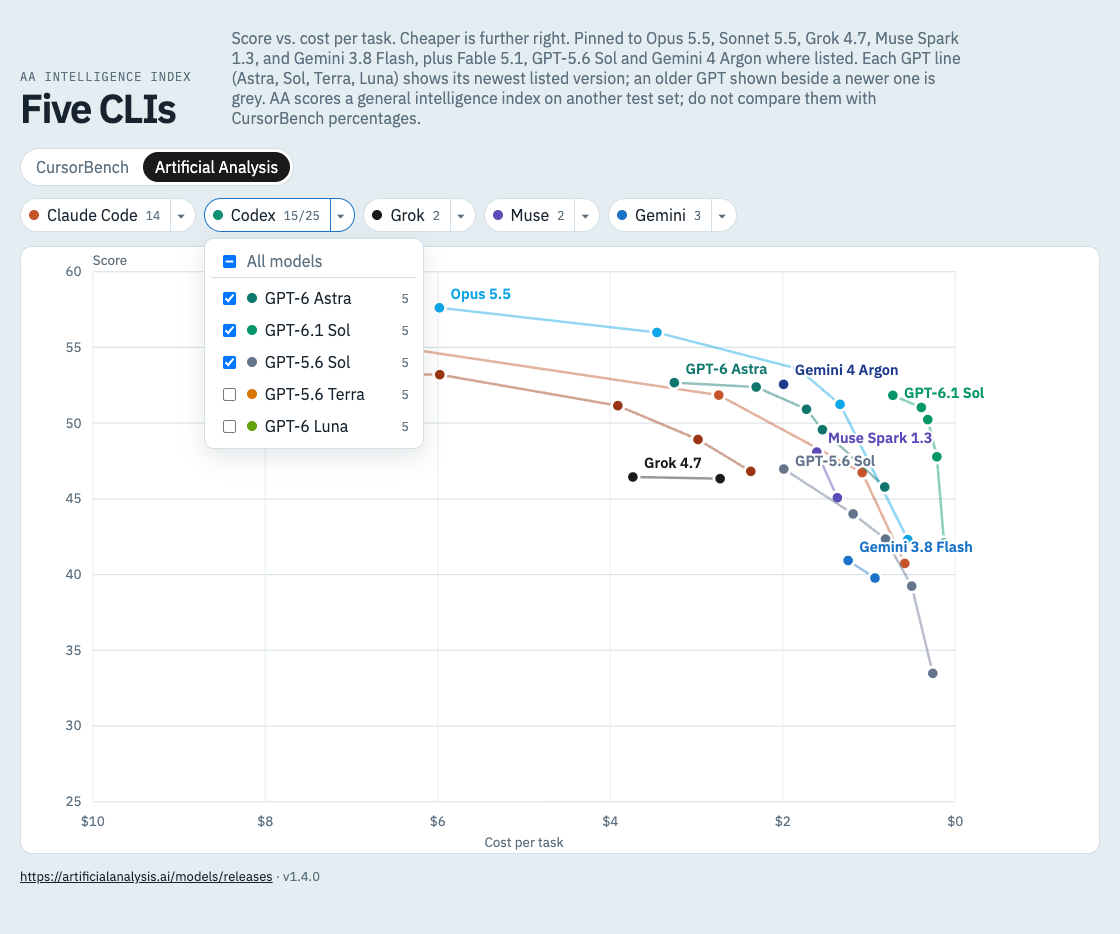
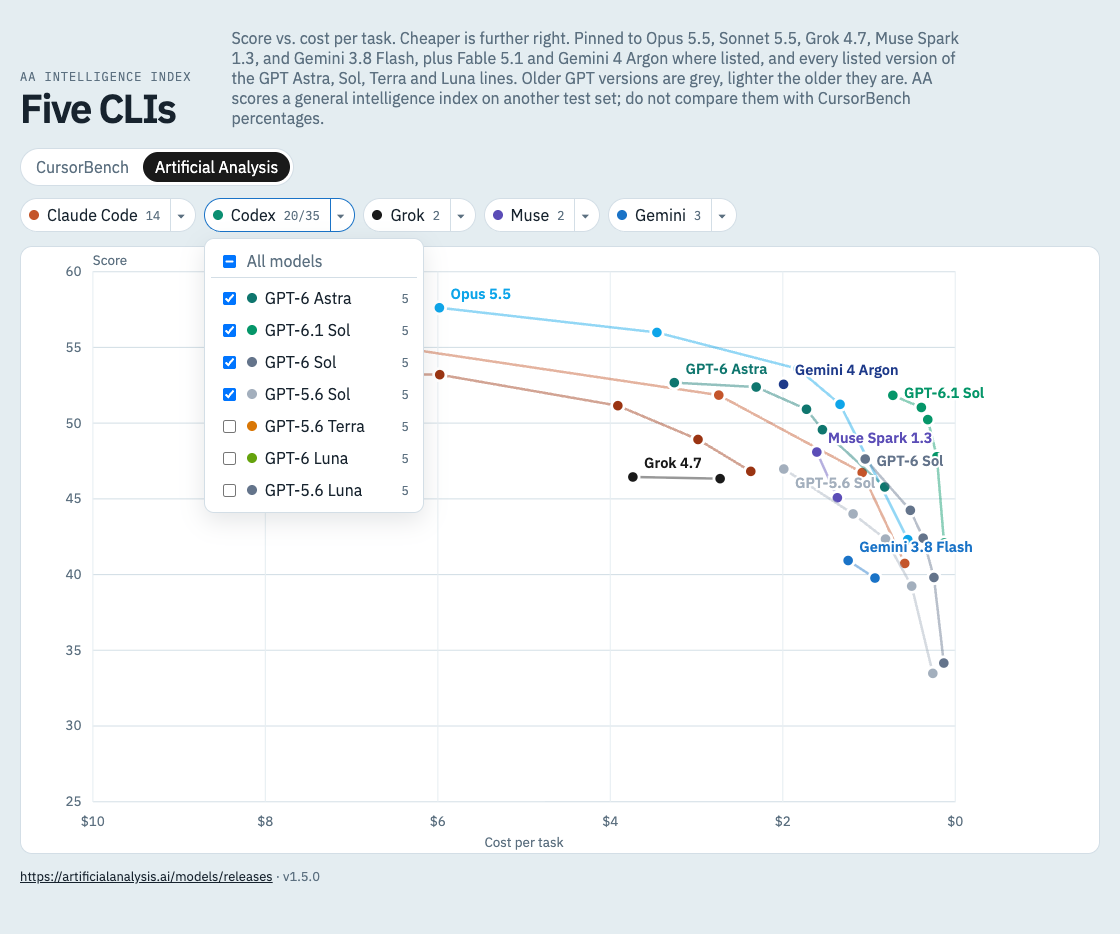
feat: draw every listed GPT version instead of only the newest
- Drop the newest-version-per-GPT-line rule: every listed Astra, Sol,
  Terra and Luna version is shown (GPT-6 Sol and GPT-5.6 Luna now on AA).
- The newest of a line keeps its colour; one version behind is dark
  grey, older is light grey. Legend menu swatches match.
- GPT-5.6 Sol no longer needs to be an extra.
- README (GPT rule, model table, menu caption, changelog) and all
  screenshots updated. Bump to 1.5.0.

diff --git a/src/bench.ts b/src/bench.ts
@@ -46,7 +46,7 @@ export const SOURCES: Record<
   },
 }
 
-export const APP_VERSION = "1.4.0"
+export const APP_VERSION = "1.5.0"
 
 export function providerById(id: ProviderId) {
   const found = PROVIDERS.find((item) => item.id === id)
@@ -56,25 +56,29 @@ export function providerById(id: ProviderId) {
 
 const GPT_MODEL = /^GPT-(\d+)(?:\.(\d+))? (Astra|Sol|Terra|Luna)$/
 
-// GPT models drawn next to a newer version of the same line (e.g. GPT-5.6 Sol
-// beside GPT-6.1 Sol). They get a muted colour so the newest one stands out.
+// How many versions behind the newest of its GPT line each older GPT model is
+// (GPT-6 Sol is 1 behind GPT-6.1 Sol, GPT-5.6 Sol is 2). Older ones get grey so the
+// newest stands out.
 export function previousGenerations(models: readonly string[]) {
-  const newest = new Map<string, number>()
+  const versions = new Map<string, number[]>()
   const version = (match: RegExpMatchArray) => Number(match[1]) * 1000 + Number(match[2] ?? 0)
   for (const model of models) {
     const match = model.match(GPT_MODEL)
-    if (match) newest.set(match[3], Math.max(newest.get(match[3]) ?? 0, version(match)))
+    if (match) versions.set(match[3], [...(versions.get(match[3]) ?? []), version(match)])
   }
-  const previous = new Set<string>()
+  const behind = new Map<string, number>()
   for (const model of models) {
     const match = model.match(GPT_MODEL)
-    if (match && version(match) < (newest.get(match[3]) ?? 0)) previous.add(model)
+    if (!match) continue
+    const newer = new Set((versions.get(match[3]) ?? []).filter((value) => value > version(match))).size
+    if (newer > 0) behind.set(model, newer)
   }
-  return previous
+  return behind
 }
 
-export function seriesColor(model: string, provider: ProviderId, previous = false) {
-  if (previous) return "#64748b"
+export function seriesColor(model: string, provider: ProviderId, behind = 0) {
+  if (behind === 1) return "#64748b"
+  if (behind > 1) return "#a3afbd"
   if (model.startsWith("Opus")) return "#0ea5e9"
   if (model.startsWith("Sonnet")) return "#c4552a"
   if (model.startsWith("Fable")) return "#9a3412"

diff --git a/src/App.tsx b/src/App.tsx
@@ -57,7 +57,7 @@ export default function App() {
     () => rows.filter((row) => !hidden.has(row.provider) && !hiddenModels.has(row.model)),
     [rows, hidden, hiddenModels],
   )
-  // Grey marks an older GPT beside a newer one in this source, even when the newer is unticked.
+  // Grey marks GPT versions behind the newest of their line in this source, even when the newer is unticked.
   const previous = useMemo(() => previousGenerations([...new Set(rows.map((row) => row.model))]), [rows])
   const active = pinned ?? hover
 
@@ -103,8 +103,8 @@ export default function App() {
         </div>
         <p className="deck">
           Score vs. cost per task. Cheaper is further right. Pinned to Opus 5.5, Sonnet 5.5, Grok 4.7, Muse Spark 1.3, and
-          Gemini 3.8 Flash, plus Fable 5.1, GPT-5.6 Sol and Gemini 4 Argon where listed. Each GPT line (Astra, Sol, Terra,
-          Luna) shows its newest listed version; an older GPT shown beside a newer one is grey.
+          Gemini 3.8 Flash, plus Fable 5.1 and Gemini 4 Argon where listed, and every listed version of the GPT Astra, Sol,
+          Terra and Luna lines. Older GPT versions are grey, lighter the older they are.
           {source === "aa"
             ? " AA scores a general intelligence index on another test set; do not compare them with CursorBench percentages."
             : null}

diff --git a/src/Legend.tsx b/src/Legend.tsx
@@ -3,7 +3,7 @@ import { PROVIDERS, seriesColor, type ProviderId, type Row } from "./bench"
 
 type Props = {
   rows: Row[]
-  previous: ReadonlySet<string>
+  previous: ReadonlyMap<string, number>
   hiddenProviders: ReadonlySet<ProviderId>
   hiddenModels: ReadonlySet<string>
   onToggleProvider: (id: ProviderId) => void
@@ -97,7 +97,7 @@ export default function Legend({ rows, previous, hiddenProviders, hiddenModels, 
                     />
                     <span
                       className="swatch"
-                      style={{ background: seriesColor(item.model, provider.id, previous.has(item.model)) }}
+                      style={{ background: seriesColor(item.model, provider.id, previous.get(item.model)) }}
                     />
                     <span className="menu-name">{item.model}</span>
                     <span className="count">{item.points}</span>

diff --git a/src/Chart.tsx b/src/Chart.tsx
@@ -23,7 +23,7 @@ type Label = {
 
 type Props = {
   rows: Row[]
-  previous: ReadonlySet<string>
+  previous: ReadonlyMap<string, number>
   unit: string
   scoreName: string
   active: string | null
@@ -74,7 +74,7 @@ export default function Chart({ rows, previous, unit, scoreName, active, onHover
   const xTicks = tickValues(0, xMax, 6)
   const yTicks = tickValues(yMin, yMax, 6)
 
-  const colorOf = (model: string, provider: Row["provider"]) => seriesColor(model, provider, previous.has(model))
+  const colorOf = (model: string, provider: Row["provider"]) => seriesColor(model, provider, previous.get(model))
 
   const byModel = new Map<string, Row[]>()
   for (const row of rows) {

diff --git a/README.md b/README.md
@@ -5,14 +5,14 @@ A small local viewer for the [CursorBench](https://cursor.com/cursorbench) leade
 | CLI         | Models shown                                   |
 | ----------- | ---------------------------------------------- |
 | Claude Code | Opus 5.5, Sonnet 5.5, Fable 5.1                |
-| Codex       | GPT-5.6 Sol, Terra, Luna (see below)           |
+| Codex       | Every GPT Astra, Sol, Terra, Luna version (below) |
 | Grok        | Grok 4.7                                       |
 | Muse        | Muse Spark 1.3                                 |
 | Gemini      | Gemini 3.8 Flash, Gemini 4 Argon (AA only)     |
 
 Every effort level listed on CursorBench (Minimal → Max) appears as its own point, and each model's points are connected into one line.
 
-Besides the pinned models, Fable 5.1, GPT-5.6 Sol and Gemini 4 Argon are drawn on whichever source lists them. Gemini 4 Argon is on Artificial Analysis only for now.
+Besides the pinned models, Fable 5.1 and Gemini 4 Argon are drawn on whichever source lists them. Gemini 4 Argon is on Artificial Analysis only for now.
 
 ![Demo: score vs. cost per task for five coding CLIs](docs/demo.png)
 
@@ -20,7 +20,7 @@ Hovering a point spotlights that model: the other lines fade, a crosshair marks 
 
 ![Demo: hover spotlights one model and dims the rest](docs/demo-hover.png)
 
-Each legend chip also has a ▾ menu to tick the models of that CLI one by one. Here GPT-5.6 Terra and GPT-6 Luna are unticked, so Codex shows 15 of its 25 points.
+Each legend chip also has a ▾ menu to tick the models of that CLI one by one. Here GPT-5.6 Terra, GPT-6 Luna and GPT-5.6 Luna are unticked, so Codex shows 20 of its 35 points.
 
 ![Demo: the model menu under a legend chip](docs/demo-menu.png)
 
@@ -28,11 +28,11 @@ Clicking a legend chip shows or hides that CLI. Here only Codex is visible, comp
 
 ![Demo: legend chips filter the chart to one CLI](docs/demo-filter.png)
 
-**GPT upgrade rule:** Codex shows one entry per GPT line: Astra, Sol, Terra and Luna. Each line uses its newest version on the leaderboard, so GPT-6.1 Sol replaces GPT-6 Sol, which replaces GPT-5.6 Sol. A line appears once the leaderboard lists it. No code change is needed. GPT-5.6 Sol is kept as an extra, so when a newer Sol is on the chart it stays as a grey comparison line.
+**GPT rule:** Codex draws every version the source lists for the Astra, Sol, Terra and Luna lines, so on Artificial Analysis GPT-6.1 Sol, GPT-6 Sol and GPT-5.6 Sol all appear. The newest version of a line keeps its colour; the one before it is dark grey and anything older is light grey. A new version appears as soon as the source lists it, with no code change. Untick older versions in the ▾ menu to hide them.
 
-As of 2026-10-01 the leaderboard has no GPT-6 models, so Codex still shows GPT-5.6. GPT-6 has no Terra line, so Terra stays on 5.6.
+As of 2026-10-01 CursorBench has no GPT-6 models, so it shows only GPT-5.6. GPT-6 has no Terra line.
 
-**Data source switch:** the toggle above the legend swaps CursorBench for the [Artificial Analysis](https://artificialanalysis.ai/models/releases) Intelligence Index, using the same models and the same GPT rule. AA already lists GPT-6.1 Sol, GPT-6 Astra, GPT-6 Luna and Gemini 4 Argon. Its score is a general intelligence index on a different test set, so read it on its own and do not compare it with CursorBench percentages. AA scores fewer efforts for some models (Grok 4.7 and Muse Spark 1.3 have two each). The choice is kept in the URL as `?source=aa`.
+**Data source switch:** the toggle above the legend swaps CursorBench for the [Artificial Analysis](https://artificialanalysis.ai/models/releases) Intelligence Index, using the same models and the same GPT rule. AA already lists GPT-6.1 Sol, GPT-6 Sol, GPT-6 Astra, GPT-6 Luna and Gemini 4 Argon. Its score is a general intelligence index on a different test set, so read it on its own and do not compare it with CursorBench percentages. AA scores fewer efforts for some models (Grok 4.7 and Muse Spark 1.3 have two each). The choice is kept in the URL as `?source=aa`.
 
 ![Demo: the same chart on the Artificial Analysis Intelligence Index](docs/demo-aa.png)
 
@@ -102,6 +102,7 @@ Edit `KEEP`, `EXTRA` and `GPT_LINES` in [server/bench.mjs](server/bench.mjs), th
 
 ## Changelog
 
+- **1.5.0** (2026-10-02): Dropped the newest-version-per-GPT-line rule. Every listed GPT Astra, Sol, Terra and Luna version is drawn (GPT-6 Sol and GPT-5.6 Luna now show on AA). Older versions are dark grey one step behind and light grey further back.
 - **1.4.0** (2026-10-01): A ▾ menu on each legend chip ticks that CLI's models one by one. The chip count shows shown/total when some are unticked.
 - **1.3.0** (2026-10-01): Fable 5.1, GPT-5.6 Sol and Gemini 4 Argon drawn on whichever source lists them. An older GPT shown beside a newer version of its line is grey. AA release discovery also reads releases that appear only through their variants.
 - **1.2.0** (2026-10-01): Data source toggle between CursorBench and the Artificial Analysis Intelligence Index (`?source=aa`), so GPT-6.1 Sol, GPT-6 Astra and GPT-6 Luna can be seen before CursorBench lists them. AA rows are read per release and per effort, never borrowed from a neighbouring model.
